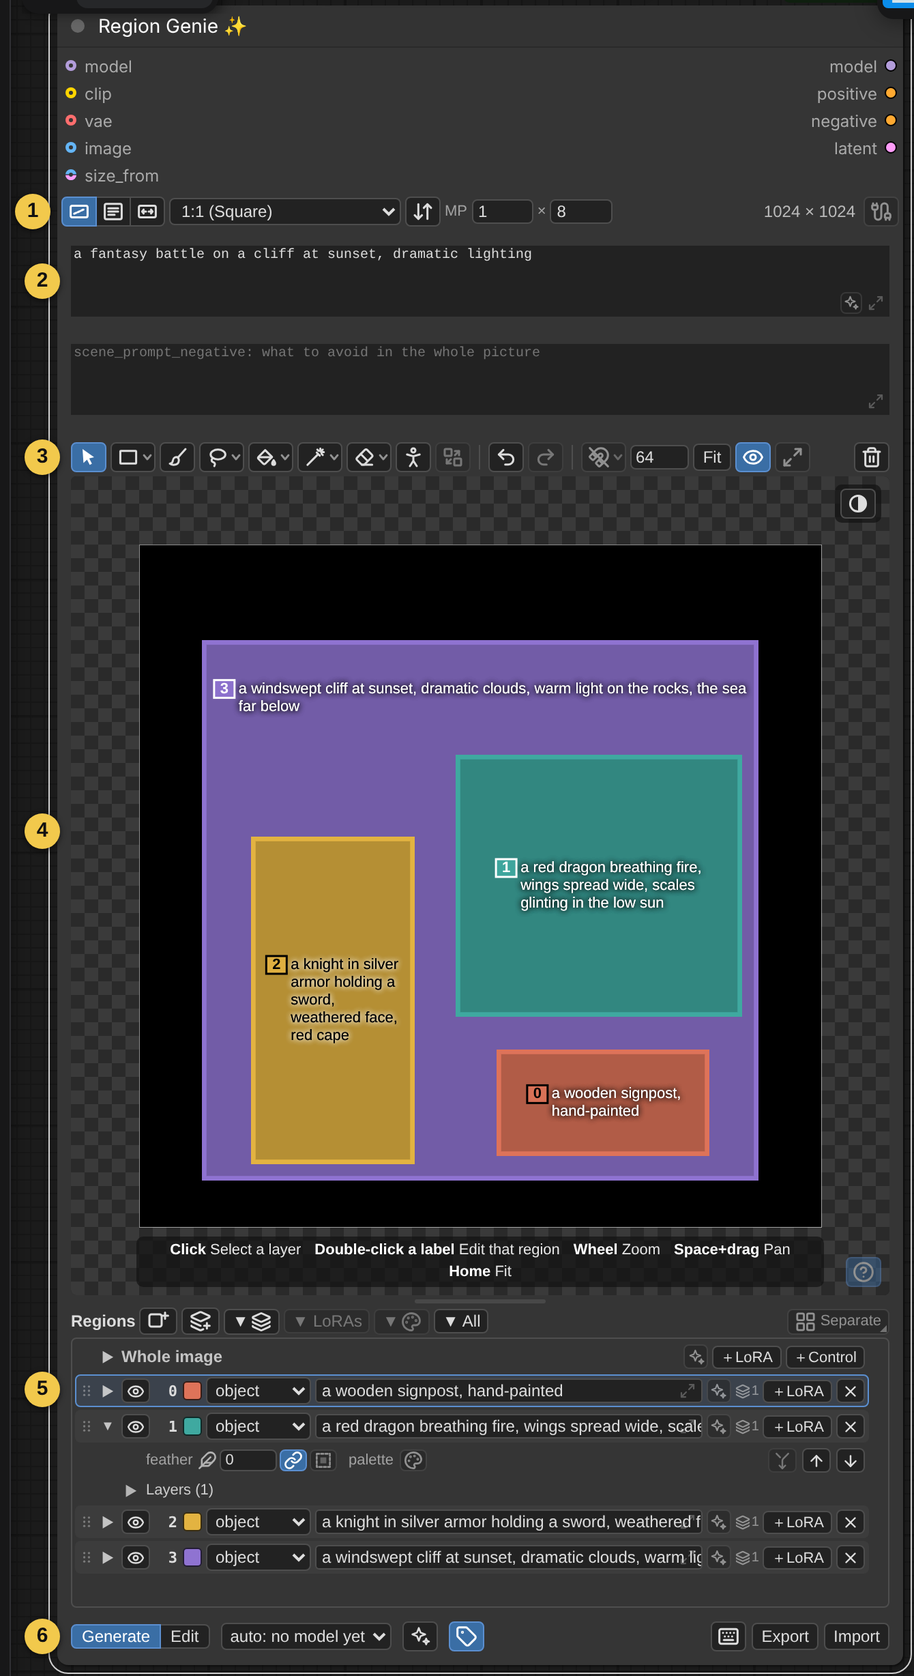
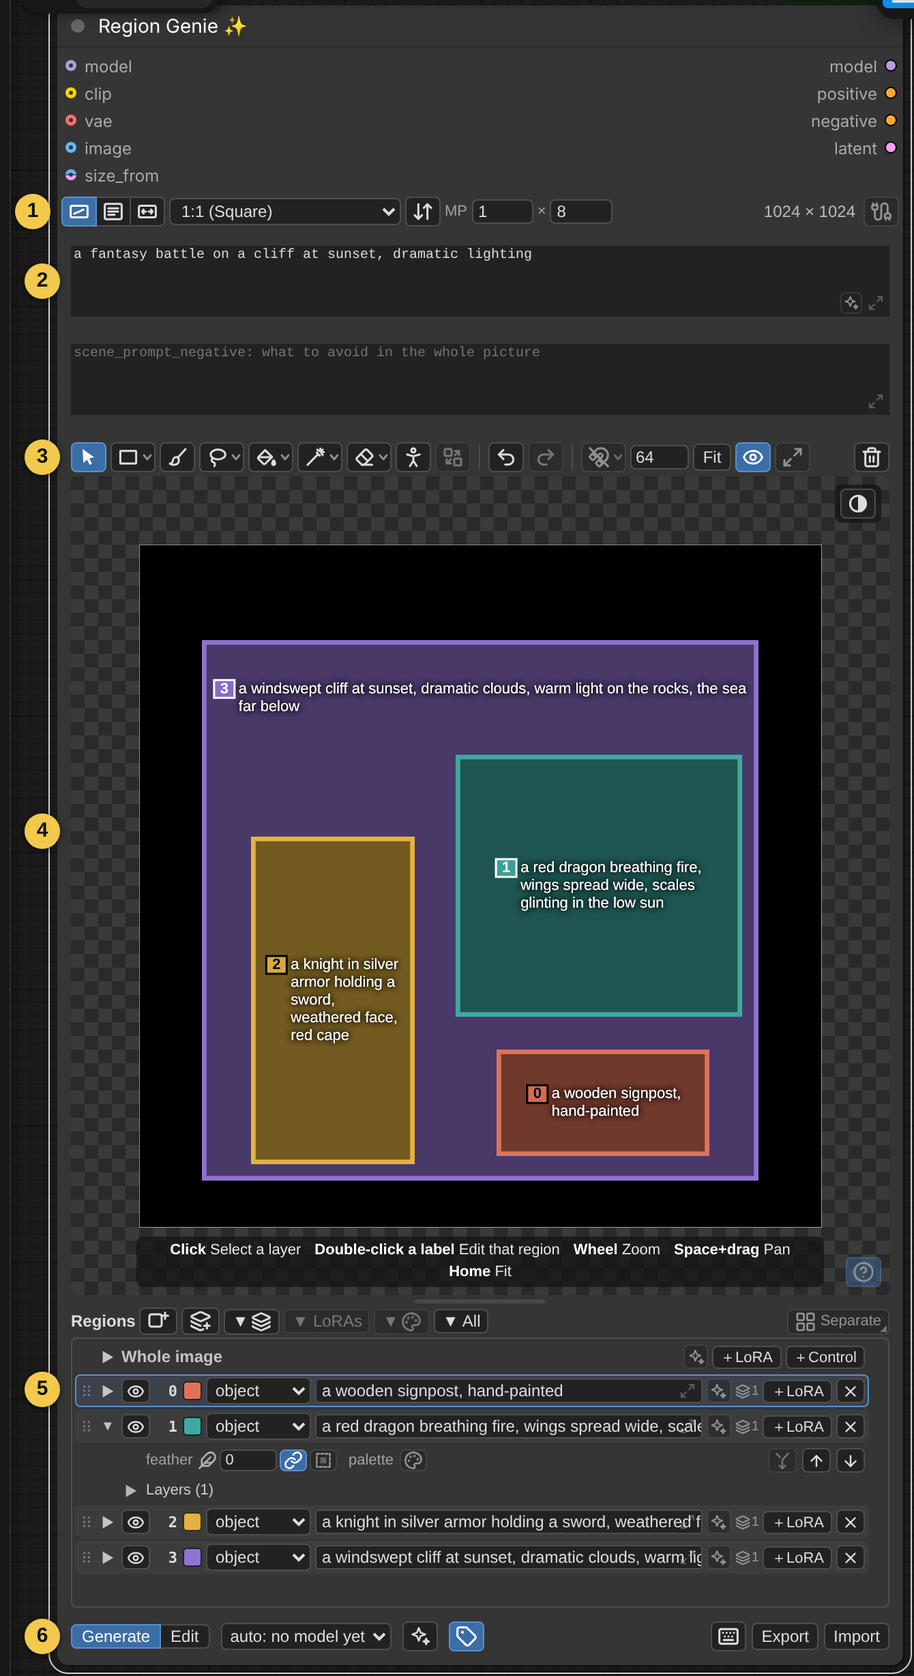
Labels: text size and shadow Settings, text grows with the zoom; line width up to 10 px; 50% regions without an image too
Claude-Session: https://claude.ai/code/session_01B5U1gpBZHxaHUVoHyaNrX1

Changed region(s): [[0.2142, 0.3713, 0.8261, 0.7117]]

diff --git a/js/rg_shared.js b/js/rg_shared.js
@@ -1974,6 +1974,9 @@ export const SET = {
     cmFillImage: "RegionGenie.Main.FillImage",
     cmFill: "RegionGenie.Main.Fill",
     cmEdge: "RegionGenie.Main.EdgeLine",
+    cmLabelSize: "RegionGenie.Main.LabelSize",
+    cmLabelShadow: "RegionGenie.Main.LabelShadow",
+    cmLabelShadowStrength: "RegionGenie.Main.LabelShadowStrength",
     cmGridShow: "RegionGenie.Main.GridShow",
     cmGridLines: "RegionGenie.Main.GridLines",
     regionColors: "RegionGenie.Main.RegionColors",
@@ -2412,8 +2415,11 @@ const SETTINGS = [
         { id: SET.cmGridShow, name: "Show the grid without snapping", type: "boolean", defaultValue: false, tooltip: "Whether the grid's lines are drawn while snap to grid is off, when a Region Genie node is added or a workflow is opened. On a node: The ▾ of the magnet button.", category: CAT("Region Genie node", "1005 grid show") },
         { id: SET.cmGridLines, name: "Grid lines", type: "combo", defaultValue: "normal", options: [{ text: "Faint", value: "faint" }, { text: "Normal", value: "normal" }, { text: "Strong", value: "strong" }], tooltip: "How strong the grid's lines are drawn on the canvas of every Region Genie node. Also in the ▾ of the magnet button.", category: CAT("Region Genie node", "1006 grid lines") },
         { id: SET.cmFillImage, name: "Region opacity over an image (%)", type: "number", defaultValue: 50, attrs: { min: 0, max: 100, step: 5 }, tooltip: "How solid the regions' colors are drawn while a connected image is shown under them, until it is changed on a node (the opacity button in the canvas's top right corner). Below 100% a line along each region's edge stays solid.", category: CAT("Region Genie node", "101 fill image") },
-        { id: SET.cmFill, name: "Region opacity without an image (%)", type: "number", defaultValue: 80, attrs: { min: 0, max: 100, step: 5 }, tooltip: "How solid the regions' colors are drawn while no image is shown under them, until it is changed on a node (the opacity button in the canvas's top right corner). Below 100% a line along each region's edge stays solid.", category: CAT("Region Genie node", "102 fill") },
-        { id: SET.cmEdge, name: "Region edge line (px)", type: "number", defaultValue: 3.5, attrs: { min: 0, max: 30, step: 0.5 }, tooltip: "How wide the solid line along each region's edge is while the regions are see-through, on every Region Genie node. A line wider than a shape fills it. 0: No line.", category: CAT("Region Genie node", "103 edge") },
+        { id: SET.cmFill, name: "Region opacity without an image (%)", type: "number", defaultValue: 50, attrs: { min: 0, max: 100, step: 5 }, tooltip: "How solid the regions' colors are drawn while no image is shown under them, until it is changed on a node (the opacity button in the canvas's top right corner). Below 100% a line along each region's edge stays solid.", category: CAT("Region Genie node", "102 fill") },
+        { id: SET.cmEdge, name: "Region edge line (px)", type: "number", defaultValue: 3.5, attrs: { min: 0, max: 10, step: 0.5 }, tooltip: "How wide the solid line along each region's edge is while the regions are see-through, on every Region Genie node. A line wider than a shape fills it. 0: No line.", category: CAT("Region Genie node", "103 edge") },
+        { id: SET.cmLabelSize, name: "Label text size (px)", type: "number", defaultValue: 11, attrs: { min: 8, max: 32, step: 1 }, tooltip: "The size of the region prompts written on the canvas while the whole image is in view, on every Region Genie node. Zooming in enlarges them with the image; zooming out never makes them smaller than this.", category: CAT("Region Genie node", "104 label size") },
+        { id: SET.cmLabelShadow, name: "Label shadow size (px)", type: "number", defaultValue: 4, attrs: { min: 0, max: 12, step: 0.5 }, tooltip: "How far the dark shadow around the region prompts on the canvas spreads (a white glow around dark text on a light region). 0: None.", category: CAT("Region Genie node", "105 label shadow") },
+        { id: SET.cmLabelShadowStrength, name: "Label shadow strength (%)", type: "number", defaultValue: 100, attrs: { min: 0, max: 300, step: 10 }, tooltip: "How dense the shadow or glow around the region prompts on the canvas is. 0: None.", category: CAT("Region Genie node", "106 label shadow strength") },
         ...CONTROL_FILES.map(([key, name, folder, model, tag], i) => ({
             // the file field: ComfyUI's menu on the model folders (round 23), Browse… with SET.filePickers
             id: SET.control + "." + key, name, type: fileSettingType(MODEL_ROOTS, CONTROL_NONE, SET.control + "." + key, folder), defaultValue: CONTROL_NONE,

diff --git a/js/editor/render.js b/js/editor/render.js
@@ -713,7 +713,12 @@ export function* render(E) {
     }
     function drawLabels() {
         if (E.node.properties?.rg_labels === false) return;
-        const dpr = E.dprNow();
+        // Everything a label is made of is measured in "dpr" here, so one factor sizes it all: the screen's pixel
+        // ratio, the text size from Settings (11 px is 1), and the zoom. With the image fitted in view (fitView's
+        // zoom) the text has its set size; zoomed in it grows with the image, zoomed out it stays at that size.
+        const [fw, fh] = E.dims(), zFit = Math.min((E.cv.width || 1) / (fw * 1.2), (E.cv.height || 1) / (fh * 1.2));
+        const dpr = E.dprNow() * (E.labelPx() / 11) * Math.max(1, E.view.z / zFit);
+        const shadowPx = E.labelShadow(), shadowUnits = E.labelShadowStrength() * 2;       // at 100% the text is drawn twice with its shadow
         E.ctx.save();
         E.ctx.font = `${11 * dpr}px sans-serif`;
         E.ctx.textBaseline = "top";
@@ -799,12 +804,18 @@ export function* render(E) {
                 const under = (rr * 0.299 + gg * 0.587 + bb * 0.114) * fillNow + (E.backdrop ? 128 * (1 - fillNow) : 0);
                 const dark = under > 140 && !plate;
                 E.ctx.save();
-                E.ctx.shadowColor = dark ? "rgba(255,255,255,.9)" : "rgba(0,0,0,.95)"; E.ctx.shadowBlur = 4 * dpr;
+                E.ctx.shadowBlur = shadowPx * dpr;
+                E.ctx.shadowColor = shadowPx > 0 && shadowUnits > 0 ? (dark ? "rgba(255,255,255,.9)" : "rgba(0,0,0,.95)") : "rgba(0,0,0,0)";
                 E.ctx.fillStyle = dark ? "#000" : "#fff";
                 marks.forEach((m, i) => drawLabelMark(E.ctx, m, x0 + i * MARK_STEP * dpr, y0 + 1 * dpr, MARK_SIZE * dpr, dark ? "#000" : "#fff"));
                 E.ctx.fillStyle = dark ? "#000" : "#fff";
                 E.ctx.globalAlpha = rg.prompt.trim() ? 1 : 0.6;
-                for (let pass = 0; pass < 2; pass++) lines.forEach((l, i) => E.ctx.fillText(l, x0 + mw, y0 + 1 * dpr + i * lh));   // twice: the shadow / glow is strong enough to read on any picture
+                // the text once for each unit of shadow strength (a last one for the rest): shadows add up
+                for (let left = shadowPx > 0 ? shadowUnits : 0, first = true; first || left > 0; left -= 1, first = false) {
+                    const a = Math.max(0, Math.min(1, left));
+                    E.ctx.shadowColor = dark ? `rgba(255,255,255,${0.9 * a})` : `rgba(0,0,0,${0.95 * a})`;
+                    lines.forEach((l, i) => E.ctx.fillText(l, x0 + mw, y0 + 1 * dpr + i * lh));
+                }
                 E.ctx.restore();
                 continue;
             }

diff --git a/js/editor/core.js b/js/editor/core.js
@@ -157,10 +157,14 @@ export function* core(E) {
     // in the canvas's top right corner; kept in the node's properties, the defaults are Settings). Below 100% an edge line
     // in the region's color stays solid (render.js)
     const pct = (v, d) => { const n = +v; return Number.isFinite(n) ? Math.min(1, Math.max(0, n / 100)) : d; };
-    E.fillDefault = (img) => (img ? pct(getSetting(SET.cmFillImage, 50), 0.5) : pct(getSetting(SET.cmFill, 80), 0.8));
+    E.fillDefault = (img) => (img ? pct(getSetting(SET.cmFillImage, 50), 0.5) : pct(getSetting(SET.cmFill, 50), 0.5));
     E.fillNow = () => { const v = E.node.properties?.[E.backdrop ? "rg_fill_image" : "rg_fill"]; return typeof v === "number" ? Math.min(1, Math.max(0, v)) : E.fillDefault(!!E.backdrop); };
     E.setFill = (v) => { (E.node.properties = E.node.properties || {})[E.backdrop ? "rg_fill_image" : "rg_fill"] = Math.round(Math.min(1, Math.max(0, v)) * 20) / 20; };
-    E.edgePx = () => { const n = +getSetting(SET.cmEdge, 3.5); return Number.isFinite(n) ? Math.min(30, Math.max(0, n)) : 3.5; };   // the regions' edge line, px
+    E.edgePx = () => { const n = +getSetting(SET.cmEdge, 3.5); return Number.isFinite(n) ? Math.min(10, Math.max(0, n)) : 3.5; };   // the regions' edge line, px
+    const num = (id, d, lo, hi) => { const n = +getSetting(id, d); return Number.isFinite(n) ? Math.min(hi, Math.max(lo, n)) : d; };
+    E.labelPx = () => num(SET.cmLabelSize, 11, 8, 32);                    // the prompts on the canvas: text size with the image fitted in view,
+    E.labelShadow = () => num(SET.cmLabelShadow, 4, 0, 12);               // their shadow / glow: how far it spreads (px)
+    E.labelShadowStrength = () => num(SET.cmLabelShadowStrength, 100, 0, 300) / 100;   // and how dense (1 = 100%)
     E.showGrid = !!getSetting(SET.cmGridShow, false);     // the grid's lines while snap is off
     E.gridAlphaNow = () => GRID_LINES[getSetting(SET.cmGridLines, "normal")] || GRID_LINES.normal;
     E.lastDims = [0, 0];

diff --git a/docs/HANDOFF.md b/docs/HANDOFF.md
@@ -99,15 +99,16 @@ The pack used to be called **Regional Mask Kit** (renamed Nov 10, 2026). The com
     - Arrange pop-over (`.rg-arrange`, fixed in `document.body`): flip H/V, align ×6 + centre, grow/shrink N px. Rewritten in round 45 (selectTools.js; `tests/ui_arrange.cjs` judges every case by the layer's pixels, `__rgLayerMask`): **flip** mirrors the picture on the image about the middle of the layer's pixel box (`pixelBox()`): the layer's own content is mirrored, `rot` becomes `-rot` (a shape upside down: `180 - rot`, since shapes are only left-right symmetric) and the layer is moved so that point stays; an unturned paint layer keeps its frame (fills still go into it). **Align** uses `pixelBox()` (a raster over the layer's box, so parts off the image count). **Grow / shrink**: a shape with no ops stays a shape (`growShape()`: the box is refitted to the outline moved by g with pointed joins, `offsetOutline()`; exact for rect, ellipse, rounded rect (radius ± g), triangle, regular polygon and star while unstretched; a heart by its box); everything else becomes one bitmap op from an exact distance transform (`distanceSq()` in geometry.js; the old chamfer distance cut corners at 45°), plus, when growing with nothing erased, the shape's and the lasso outlines' stroke with mitre joins so pointed corners stay pointed. The raster covers the layer's pixel box plus the room it grows into, also outside the image, on the image's pixel grid; the bitmap op's `x0..y1` then reach outside the frame (Python's renderer takes any box). Cut off at the image's edge, a layer grown past it crept towards that edge with every grow + shrink (the owner's report). Shrinking to nothing is refused with a hint.
     - shared helpers `rasterSize`, `regionLabels`, `flood`, `commitMask` (into the selected plain layer of the active region, else a new layer).
   - **Round 8 Select object fixes:** the tool button uses icon `samSelect` (`addTool(key, title, icon)`; it used to look up `ICONS.object`, which doesn't exist, so the button was blank). ✓ / ✕ buttons after the find field (`pickOkBtn` / `pickNoBtn`, icons `check` / `close`, kept in step by `syncPickBtns()` on every draw). `pickSettle()`: leaving the tool (or the image going away) adds a finished selection, or waits for the answer in flight (`pick.acceptOnAnswer`), instead of discarding it. `pickNext()`: Shift+click / Shift+drag adds the selection so far and starts a new one. `pickAccept` adds to the active region in both modes (`commitMask`: into its selected plain layer, else a new layer); `asRegion` is only used by Shift+Enter (find all, one region each). (A first version made a new region per selection in Edit Mode; the user reverted that the same day, to build regions from layers.) Errors go to the message bar (`msgBar`, `.rg-msg`, between the canvas and the list: `showMsg` linkifies URLs, Copy link via `copyText` with an `execCommand` fallback for non-secure pages, `hideMsg` on ✕ / another tool / mode change / a successful answer). Ctrl+C with text selected in the bar is left to the browser (`msgSelected()`), and the click-capture that focuses the key sink skips the bar.
-  - **Region opacity (round 72).** `E.fillNow()` / `E.setFill(v)` / `E.fillDefault(img)` in core.js: how solid the composite is drawn, one value with an image under it (`properties.rg_fill_image`, Setting `cmFillImage`, 50) and one without (`rg_fill`, `cmFill`, 80).
+  - **Region opacity (round 72).** `E.fillNow()` / `E.setFill(v)` / `E.fillDefault(img)` in core.js: how solid the composite is drawn, one value with an image under it (`properties.rg_fill_image`, Setting `cmFillImage`, 50) and one without (`rg_fill`, `cmFill`, 50).
     - The image itself is always drawn at full strength. The control (toolbar.js, `E.syncOpacity`): a button (`.rg-opac`) in the canvas's top right strip (`.rg-imgmode`, always shown since round 72); its slider (`.rg-oslider`) drops down on hover, while dragged, or after a click (`.open`) until a click elsewhere.
-    - **Edge lines (round 73).** `edgeLines()` in render.js, below 100% and with Setting `cmEdge` (px, 3.5) above 0. Each region is outlined along its own whole shape, hidden where regions in front cover it.
+    - **Edge lines (round 73).** `edgeLines()` in render.js, below 100% and with Setting `cmEdge` (px, 0 to 10, 3.5) above 0. Each region is outlined along its own whole shape, hidden where regions in front cover it.
       - `renderPlanes()` draws every shown region's shape (all its layers) front region first, three to a canvas (red / green / blue, added on black); a layer with erased parts or a fade goes through a scratch canvas first.
       - `EDGE_GL` (module level, one WebGL canvas for the page, up to 8 textures = 24 regions): per pixel and region, m = the shape here, e = the least of m on 1 to 3 rings of 12 points a line's width around; line = color x (m - e) x what the regions in front leave.
       - The result is kept in `linesCv` under a key (version, view, size, width, counts; none while dragging). `edgeSlow` (a pass over 45 ms) skips the lines during quick redraws and draws them 170 ms after the last one.
       - Without WebGL: `simpleLines()`, the round 72 method on the finished picture (stepped; a region's line follows the region on top). Tests force it with `window.__rgNoEdgeGL`; `node.__rgEdgeBy()` / `__rgEdgeMs()` report.
       - In the test browser WebGL runs on the processor: about 330 ms per pass for a node-sized canvas. Not measured on a real graphics card.
     - Labels (round 73): a label inside its region has no box. `under` = the region's brightness x the opacity (+ a middle gray for the image's share): over 140 the text is black with a white glow, else white with a dark shadow (drawn twice, blur 4). The plate remains for a control map and kept regions in Edit Mode.
+    - Label size: `drawLabels` multiplies its `dpr` by `E.labelPx() / 11` and by max(1, zoom / fitted zoom), so every measure of a label follows. Shadow: `E.labelShadow()` px, `E.labelShadowStrength()` (the text is drawn once per half unit).
     - The grid: drawn while `E.snap` or `E.showGrid` (Shift+G, `view.grid`; Setting `cmGridShow`); line strength `GRID_LINES` by Setting `cmGridLines`. Both are in the magnet button's ▾ menu (`gridMenu`, toolbar.js).
   - **Round 11 toolbar:** `GROUPS` (shape / lasso / fill / wand / erase: `cur()`, `entries()` = [id, icon, title, pick]), one `.rg-btn.grp` per group with `.rg-grp-ic` and the ▾ `.rg-grp-dd` (click: the list; right-click too), `data-group` for tests, `toolBtns` maps every tool to its group's button (`setTool` highlights by button), `grpCur` (wand / erase: the tool shown), `refreshVariantButtons()` (icon + title from the current entry). Tool options in `optStrip` (`.rg-toolopts`, in `cvBox`) with small icon labels, `syncStrip()`. Image opacity: `bdBox` is now `.rg-oslider` on the canvas's right edge (`syncOpacity`, drag / wheel). New icons shapeRect … shapeHeart, opacity.
   - **Round 10 expand / pop-up / text size:** `addExpandButton(t, title, onOpen)` (button `.rg-expand` in the field's parent, placed from offsets, so it works in legacy and Nodes 2.0); `popLayout(ed, kind, autoPlace)` (saved size, else POP_W; saved place, else the editor's own placement) and `popFrame(ed, kind, head, curCat, applyFonts)` (A− / A+, title-bar drag and `.rg-pop-grip` resize, converting screen px with `wrap.offsetWidth / rect.width`); `applyFieldFonts()` (poll: scene textareas' style, CSS variables `--rg-fs-r/t`, `--rg-lh-r/t` for the list). `RG_RECENT` / `recentSetting` / `rememberSetting` (module level): values just written to Settings, read back before the Settings store has them.

diff --git a/docs/region-genie.md b/docs/region-genie.md
@@ -447,6 +447,8 @@ The tools are the icons in the bar above the canvas. Point at one for its name a
   - In Edit Mode the label of a kept region lies on a dark plate (the region is only an outline over the picture it keeps, so the text would otherwise sit on the picture itself).
   - The text goes into the largest upright rectangle that lies inside the part of the region you can see (so it never runs over a neighbour or a region drawn on top), with a margin, centred; zooming in gives it more room.
   - It is white with a dark shadow, or black with a white glow where the region is light enough at its present opacity. There is no box behind it.
+  - Its size is a setting (*Label text size*, 11 px at first): that is its size with the whole image in view. Zooming in enlarges it with the image; zooming out never makes it smaller.
+  - The shadow or glow has two settings: *Label shadow size* (how far it spreads) and *Label shadow strength* (how dense it is).
   - While a control map is on the canvas it gets a dark plate.
   - A region too small for a line of text keeps a compact label next to it (its index and up to three lines). Clicking and dragging on the text still acts on the layer under it.
   - Double-click the text to open the **region editor**, all live:
@@ -465,8 +467,8 @@ The tools are the icons in the bar above the canvas. Point at one for its name a
   - Below 100% a line along each region's edge keeps the solid color, so the shapes stay exact. At 0% only the lines remain.
     - Each region is outlined along its own shape: where another region lies on top of it, only the one on top has a line there.
     - Two regions that only touch both keep their lines.
-    - Its width is a setting (*Region edge line*, 3.5 px at first; 0 turns it off). A line wider than a shape fills the shape.
-  - Without an image the regions start at 80%, on black. The button is there too, and the canvas keeps one value for each case.
+    - Its width is a setting (*Region edge line*, 0 to 10 px, 3.5 at first; 0 turns it off). A line wider than a shape fills the shape.
+  - Without an image the regions start at 50% too, on black. The button is there too, and the canvas keeps one value for each case.
   - A directly connected Load Image shows right away; anything else shows after a run.
 - **`image` input, "use as color map":** the image's flat colors become regions under all layers, and they appear in the region list after a run so you can give them prompts.
 - **min region pixels** and **what import_json does when the canvas isn't empty** are settings for all nodes: **Settings > Region Genie > Region Genie node** (*Color map: min region pixels*, *import_json when the canvas isn't empty*).
@@ -615,9 +617,10 @@ So "Settings > Region Genie > Edit Mode" in a tooltip or in this manual means: t
   - Tag autocomplete, what the LLM sees, whether new regions start with the LLM on.
   - The Region Genie node's image size (mode, aspect ratio, megapixels, multiple, manual width / height / step size; the presets list is shared by every node).
   - image_mode, feather, separation / until, keep all regions separate, share the background, snap and grid size.
-  - Region opacity over an image (50%) and without one (80%): what the opacity button on the canvas starts at.
+  - Region opacity over an image and without one (50% each): what the opacity button on the canvas starts at.
   - Show the grid without snapping, and Grid lines (Faint, Normal, Strong).
   - Region edge line (px): the width of the solid line along see-through regions.
+  - Label text size (px), Label shadow size (px) and Label shadow strength (%): the prompts written on the canvas.
   - Regional LoRAs' feather, lora_masking, region_separation, separation_until, separate_all_regions and share_background.
 - Some settings apply to every node at its next run instead:
   - **Plain-text prompts: keep all regions separate automatically** (on by default) and one per model, see *Which format `prompt` uses*.

diff --git a/docs/CHANGELOG.md b/docs/CHANGELOG.md
@@ -10,6 +10,8 @@ Each round is one request from the owner: what was asked, what was decided (and 
 - Built: the lines come from each region's own whole shape now, not from the finished picture: `renderPlanes()` draws the shapes (three regions to a canvas, in red, green and blue), `EDGE_GL` works out the line per region and what the regions in front leave visible.
 - Built: Setting *Region edge line (px)* (0 to 30, 3.5). The finished lines are kept until something they depend on changes; where they take over 45 ms (WebGL without a graphics card) they are left out during quick redraws and drawn when the canvas rests.
 - Built: `.rg-rdel` on the row (it left the options line), `E.deleteRegion()`, `E.rowMenu()` (the canvas menu's region entries without the layer ones). Version 0.55.0.
+- After the owner tried it: the line width stops at 10 px (was 30); regions start at 50% without an image too (was 80%).
+- Asked for legibility over pictures, and built: Setting *Label text size (px)* (8 to 32, 11); the labels grow with the zoom above the fitted view and never go under the set size (one factor on `dpr` in `drawLabels`); Settings *Label shadow size (px)* (0 to 12, 4) and *Label shadow strength (%)* (0 to 300, 100).
 - Without WebGL the old lines remain (`simpleLines`): stepped, and following the region on top.
 - Then asked and decided (mock-up at 50% with and without an image): no dark box behind a label inside its region; white text with a shadow, or black text with a white glow where the region is light at its present opacity. Built: `under` in the label loop of render.js; the plate stays for a control map and for kept regions in Edit Mode.
 - Tests: `ui_region_opacity.cjs` (no line around a region on top, both lines where two touch, the width, a wide line fills, 0 = none; both paths), `ui_region_rows.cjs` (row delete, row menu); stub suite, real tooltips / settings / i18n / layering.

diff --git a/docs/HARDWARE-CHECKLIST.md b/docs/HARDWARE-CHECKLIST.md
@@ -45,7 +45,8 @@ Check once in legacy mode and once in Nodes 2.0.
 - [ ] The same in the large editor on the 4K screen: dragging and zooming stay smooth below 100% (the edge lines are drawn by the graphics card per frame), in Firefox too
 - [ ] Edge lines (round 73): smooth on tilted layers; a region under another has no line around it; two touching regions both have one; no blinking of the lines while dragging or zooming
 - [ ] Labels without a box (round 73): readable over a real photo at 50%, and over light region colors at 100% (black text, white glow)
-- [ ] Settings > Region edge line: 1, 3.5, 10, 30 and 0 look right; the canvas stays smooth with ten or more regions
+- [ ] Labels: text size 8 / 11 / 20 in Settings; zooming in enlarges the text, zooming out keeps it at the set size; shadow size and strength at their ends
+- [ ] Settings > Region edge line: 1, 3.5, 10 and 0 look right; the canvas stays smooth with ten or more regions
 - [ ] Snap to grid on: the grid lines are clearly visible on regions and on the empty canvas; the magnet's ▾ menu (Faint / Normal / Strong, show without snapping, Shift+G)
 
 - [ ] Manual size mode at the default node width, both node modes: the ± step box fits in the row; clicking the small arrows of W / H with the mouse changes the value by the step; many fast clicks (up, down, mixed) on W, H, ±, MP and × all count, none snaps back (reported in Firefox 160 on Windows, legacy mode, very fast clicks; fixed and checked in Firefox on Linux with the focus kept out of the field: please confirm on Windows)
